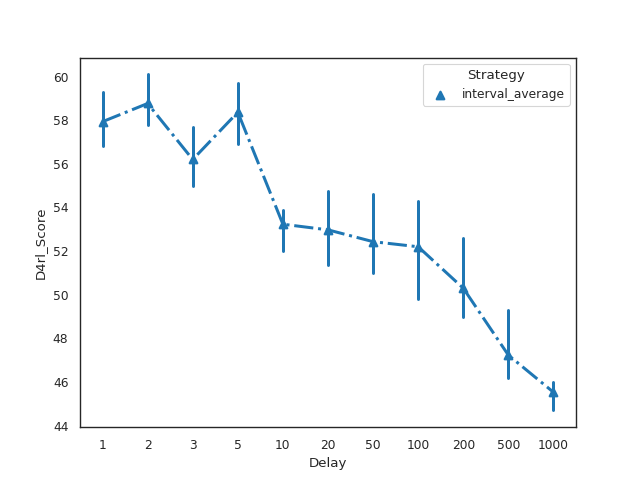
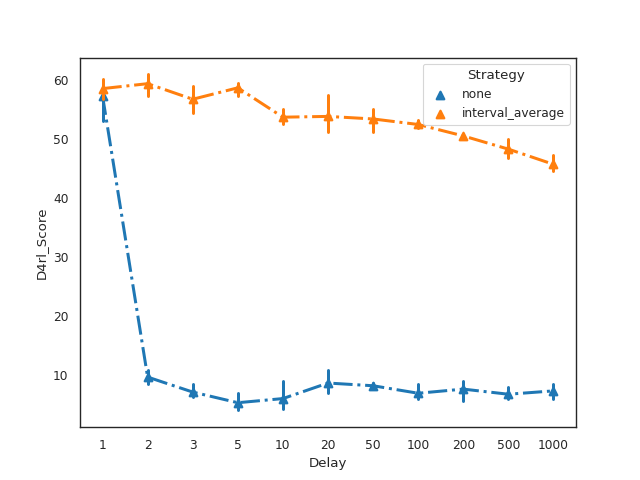
update dt results

diff --git a/scripts/export_results.py b/scripts/export_results.py
@@ -31,8 +31,9 @@ exp_variant_mapping = defaultdict(lambda: defaultdict(list))
 # {"group": [{iter-0: [{seed1}, {seed2}, ...{}], }, {iter-1}, ..., {iter-}]}
 
 filter_group = ["d4rl-halfcheetah-medium-replay-v0"]
-filter_strategy = ["interval_average"]
-
+filter_strategy = ["interval_average", "none"]
+# filter_strategy = ["none"]
+filter_seed = [10, 100, 1000]
 
 # collect
 for run in tqdm(runs):
@@ -55,10 +56,15 @@ for run in tqdm(runs):
     delay_mode = run.config.get("delay_mode", "constant")
     delay = run.config["delay"]
     seed = run.config.get("seed", 0)
+
     algo = run.config["algo_name"]
     strategy = run.config["strategy"]
 
-    if not (group in filter_group and strategy in filter_strategy):
+    if not (
+        group in filter_group
+        and strategy in filter_strategy
+        and seed in filter_seed
+    ):
         continue
 
     variant_result_info = {
@@ -71,14 +77,15 @@ for run in tqdm(runs):
         "Seed": seed,
     }
 
-    history_dict = run.history().to_dict("index")
-    exp_max_epoch = sorted(list(map(int, history_dict.keys())))[-1]
+    history_dict = run.scan_history()
     exp_identity_tag = f"{variant_result_info['Environment']}-{variant_result_info['Dataset Type']}-{variant_result_info['Delay Mode']}-{variant_result_info['Delay']}-{variant_result_info['Algo']}-{variant_result_info['Strategy']}"
 
-    for epoch in range(exp_max_epoch + 1):
+    for history_item in history_dict:
+        epoch = history_item["_step"]
+        if "D4rl_Score" not in history_item:
+            continue
         result_info_item = deepcopy(variant_result_info)
         result_info_item["Iteration"] = epoch
-        history_item = history_dict[epoch]
         result_info_item["D4rl_Score"] = history_item["D4rl_Score"]
 
         exp_variant_mapping[exp_identity_tag][epoch].append(result_info_item)

diff --git a/decision_transformer/export_experiment_results.py b/decision_transformer/export_experiment_results.py
@@ -45,12 +45,11 @@ for run in tqdm(runs):
         "Seed": seed,
     }
 
-    history_dict = run.history().to_dict("index")
-    exp_max_epoch = sorted(list(map(int, history_dict.keys())))[-1]
-    for epoch in range(exp_max_epoch + 1):
+    history_dict = run.scan_history()
+    for history_item in history_dict:
+        epoch = history_item["_step"]
         result_info_item = deepcopy(variant_result_info)
         result_info_item["Iteration"] = epoch
-        history_item = history_dict[epoch]
 
         d4rl_score_mean_list = []
         for k in history_item:

diff --git a/utils/plot_util.py b/utils/plot_util.py
@@ -69,7 +69,7 @@ def plot_line(df, x_label, y_label, hue_label, style_label, fig_name):
 
 
 if __name__ == "__main__":
-    df = pd.read_csv(f"{proj_path}/Delay_results.csv")
+    df = pd.read_csv(f"{proj_path}/assets/Delay_results.csv")
     plot_line(
         df,
         x_label="Delay",
